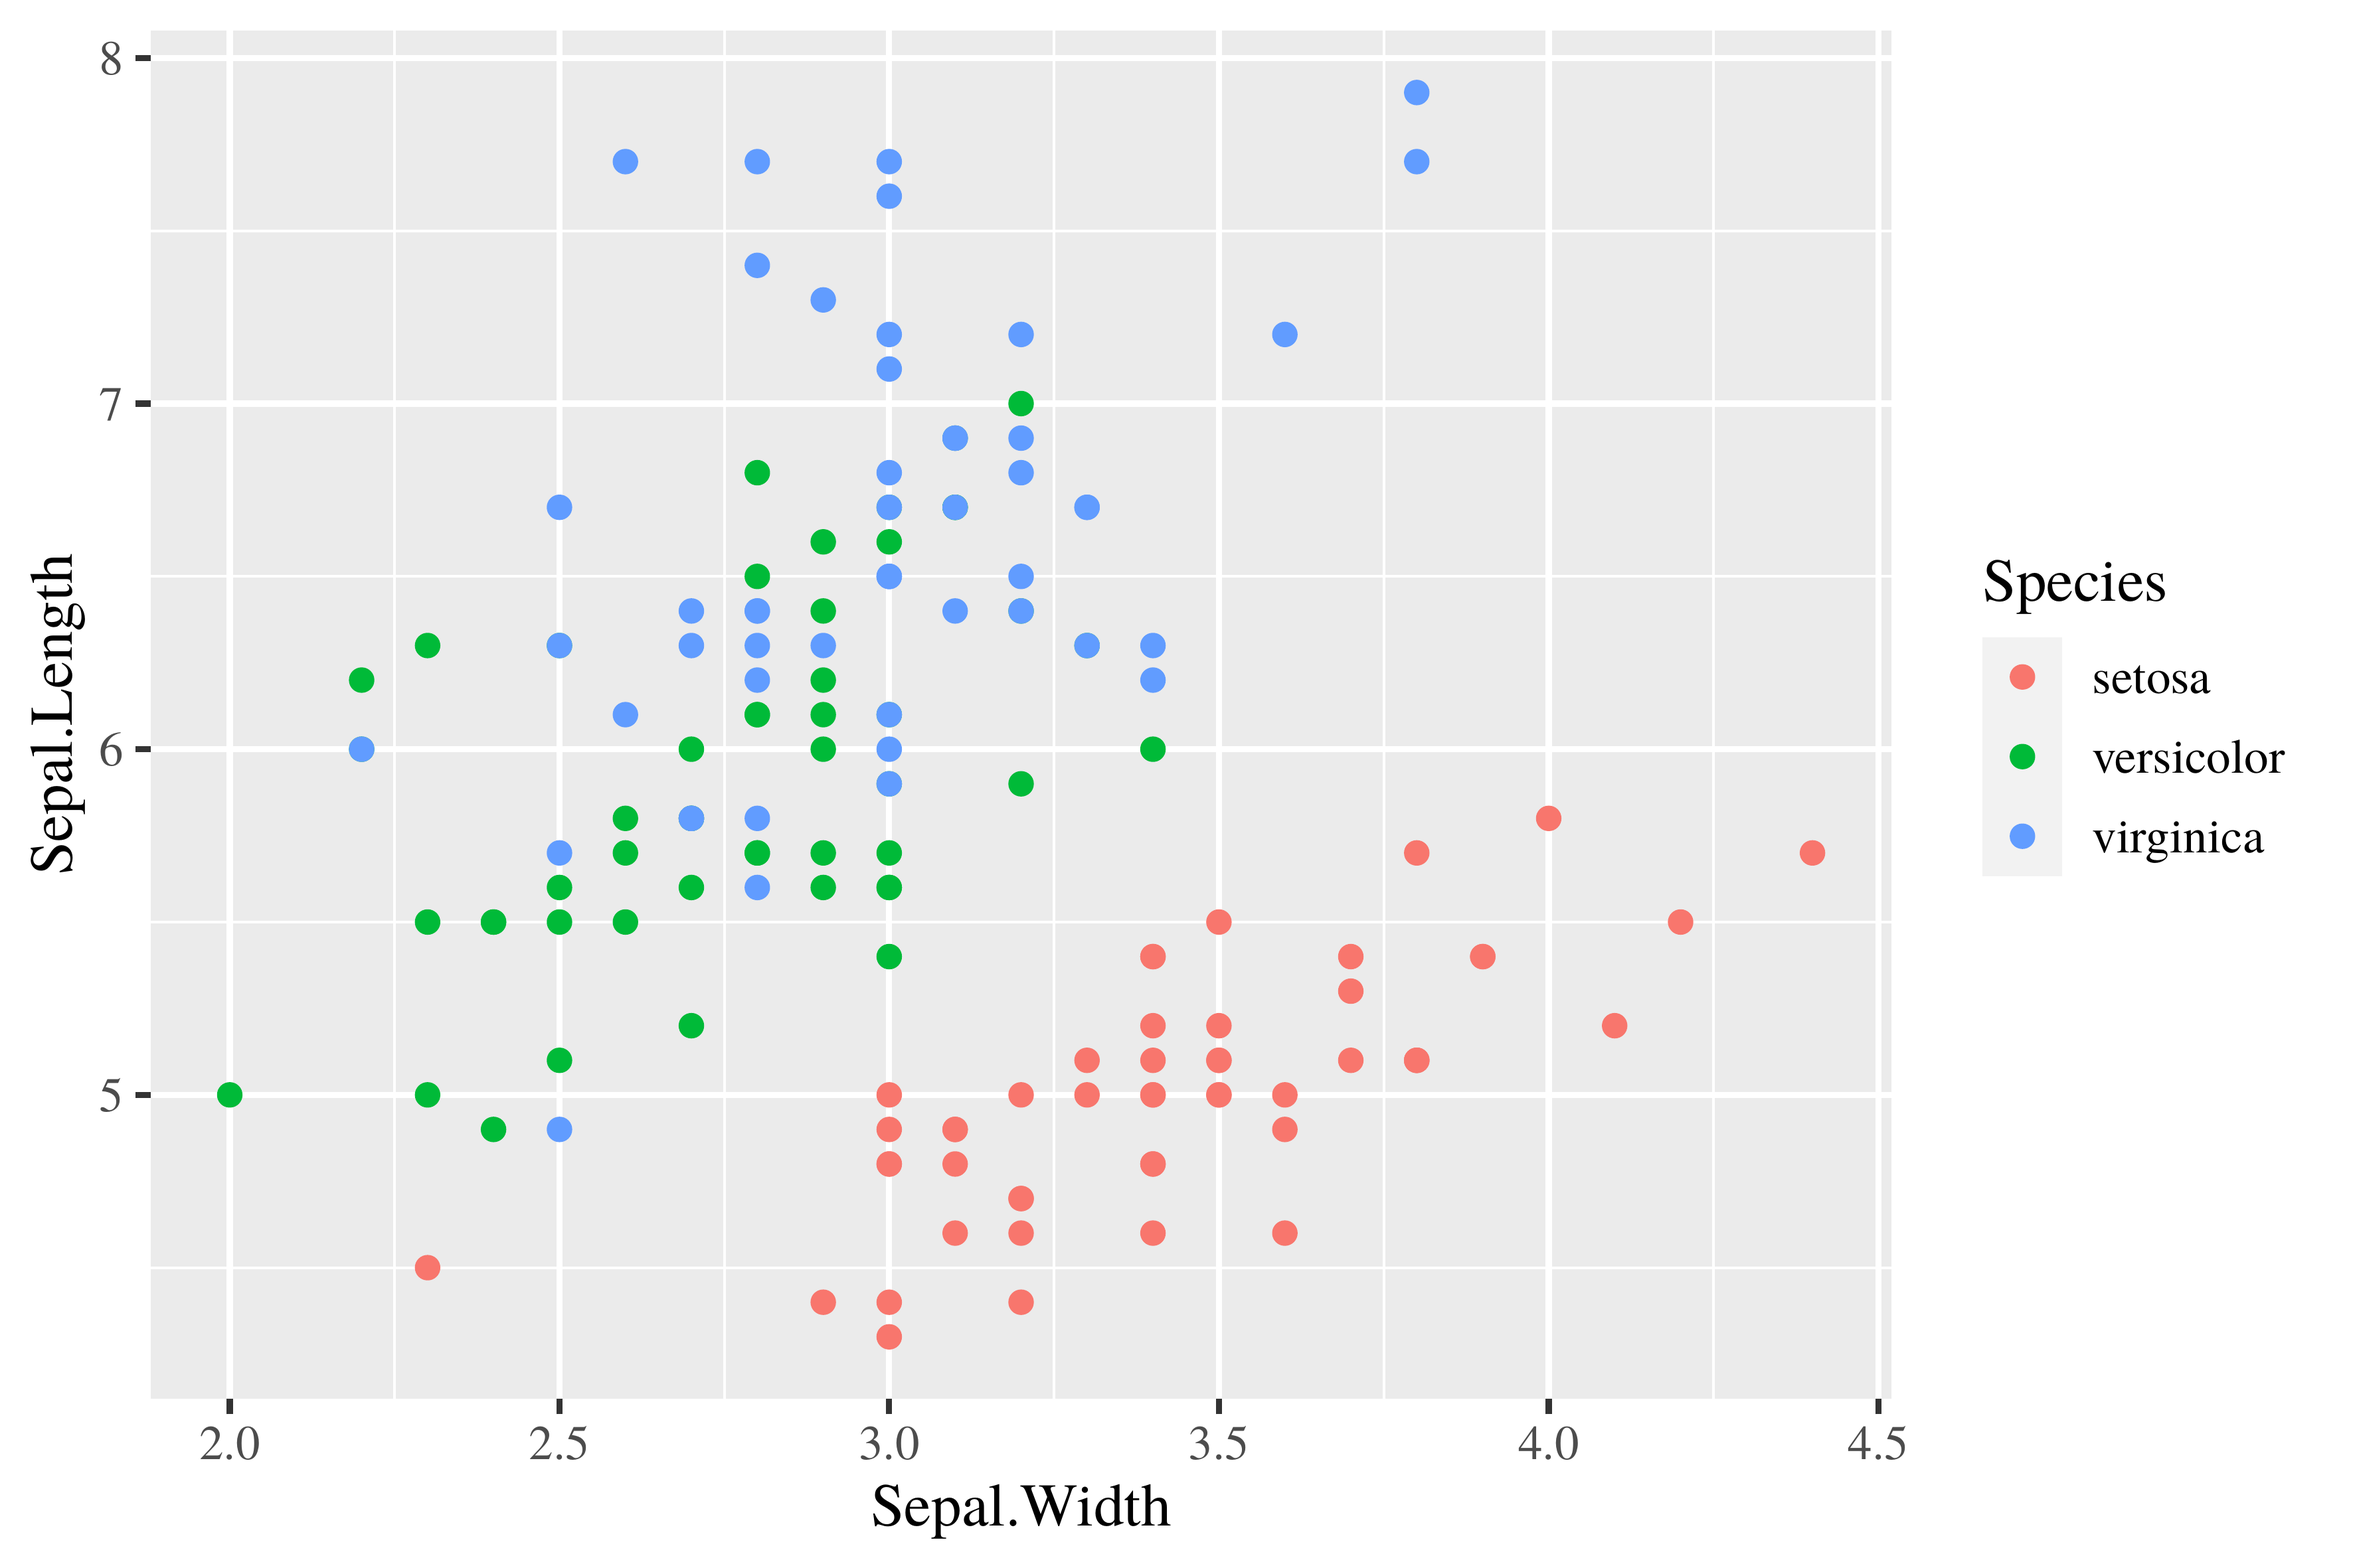
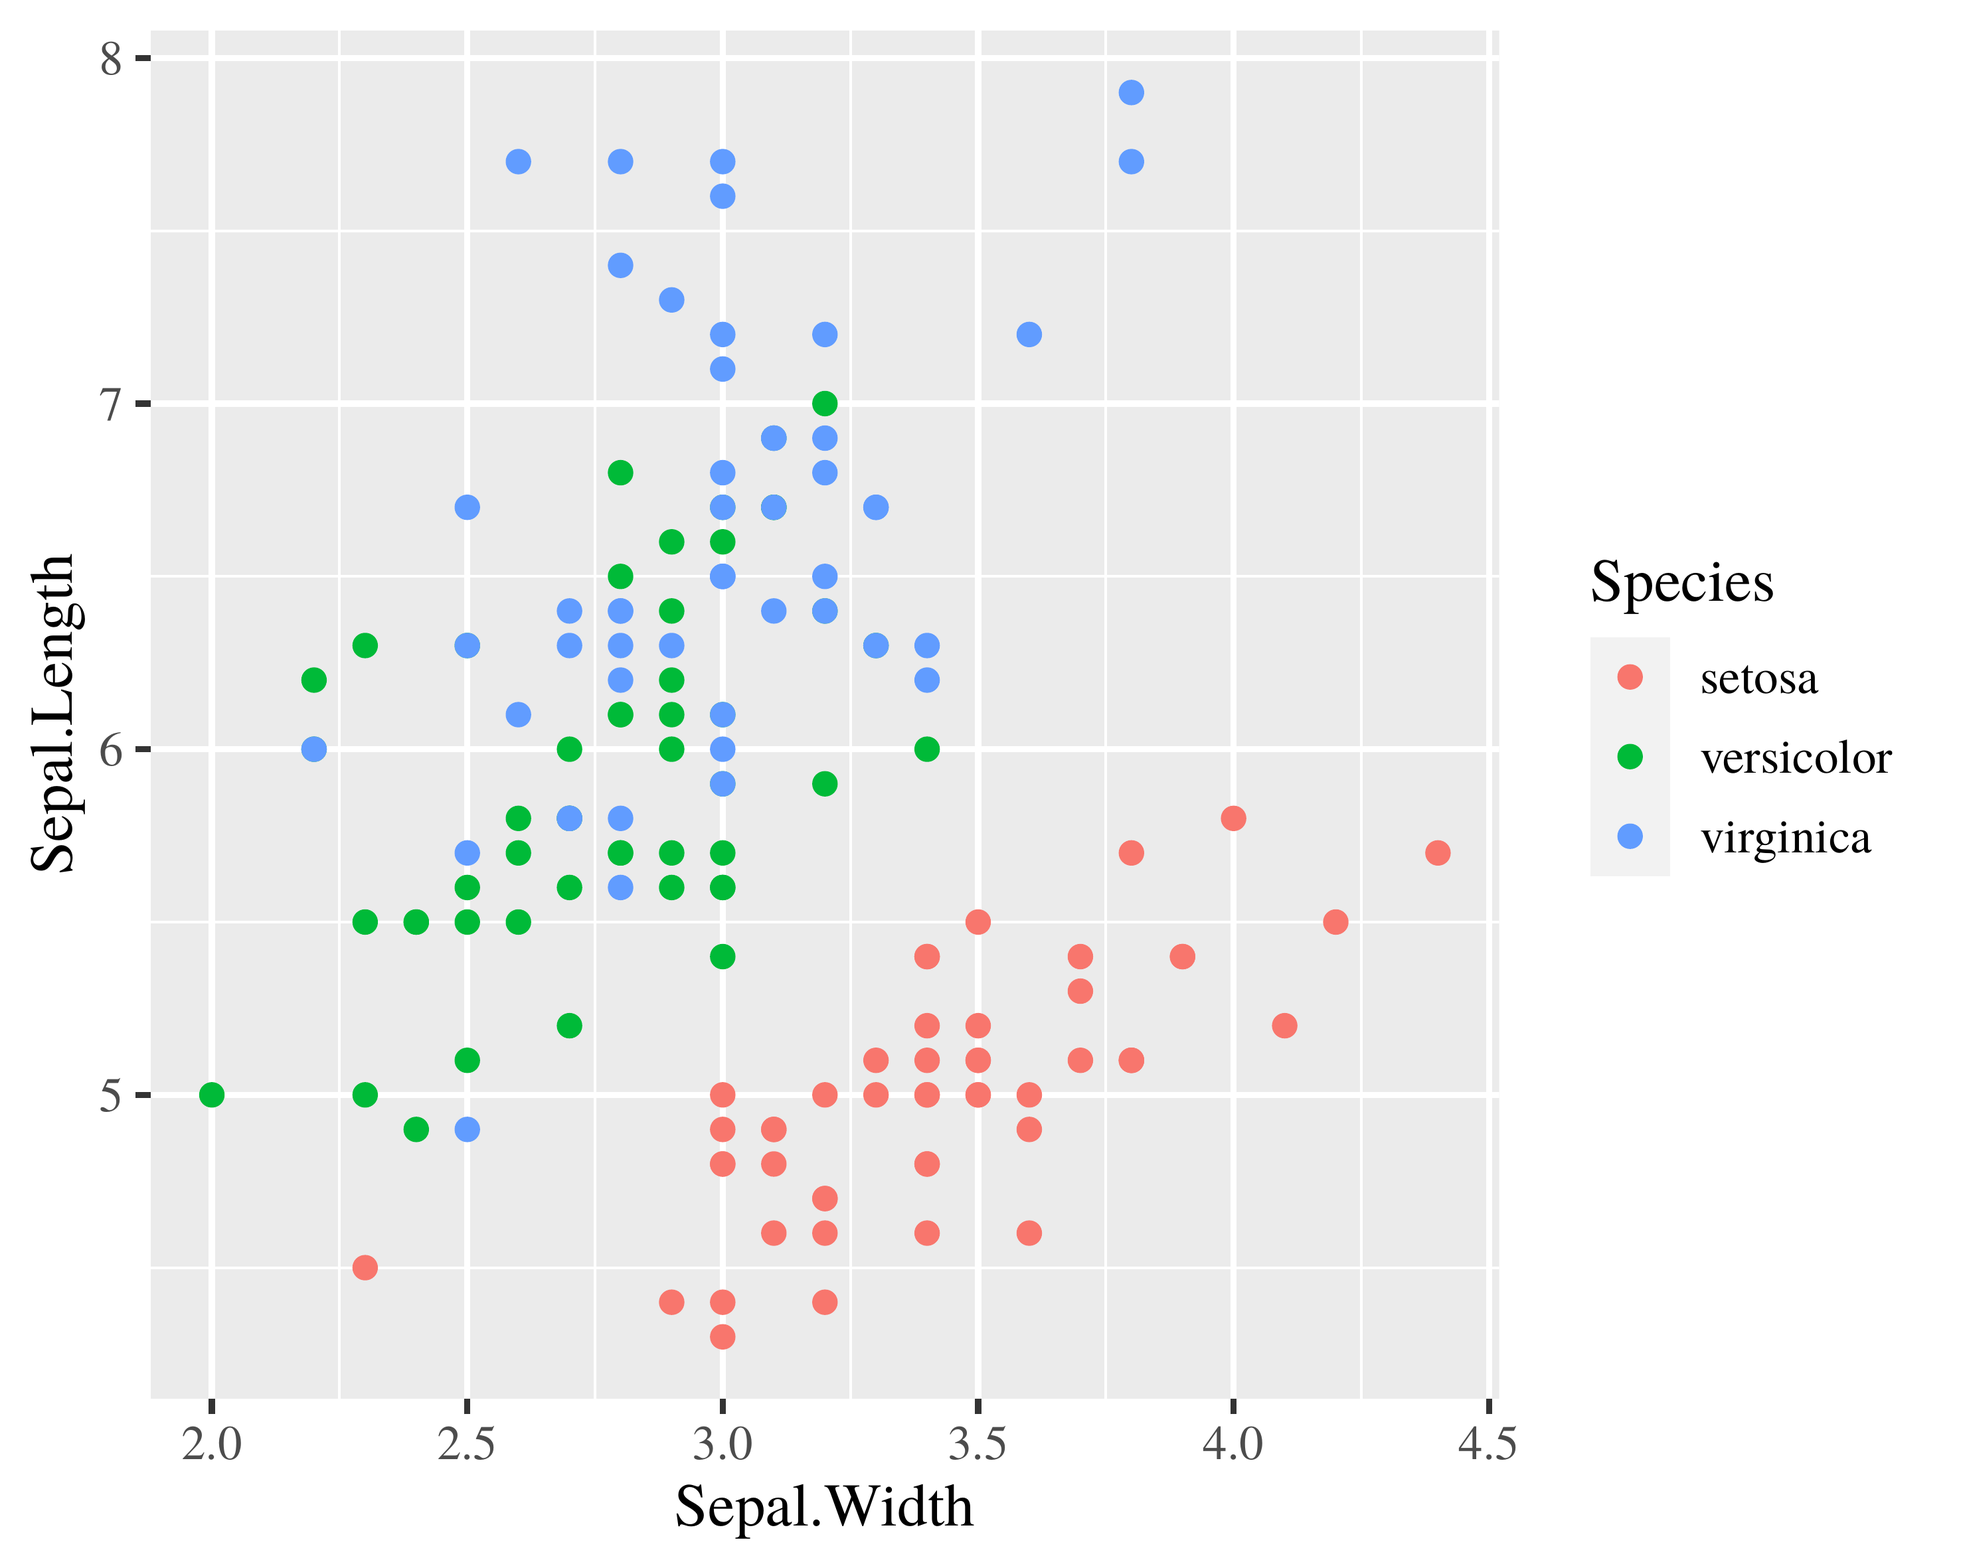
update

diff --git a/README.md b/README.md
@@ -32,7 +32,7 @@ iris_plot <- iris |>
 
 plot_to_file(
   .plot_obj=iris_plot, .figure_dir="man/figures/README-plot_to_file", 
-  .width=150, .height=100, .knit=TRUE
+  .width=125, .height=100, .knit=TRUE
 )
 ```
 
